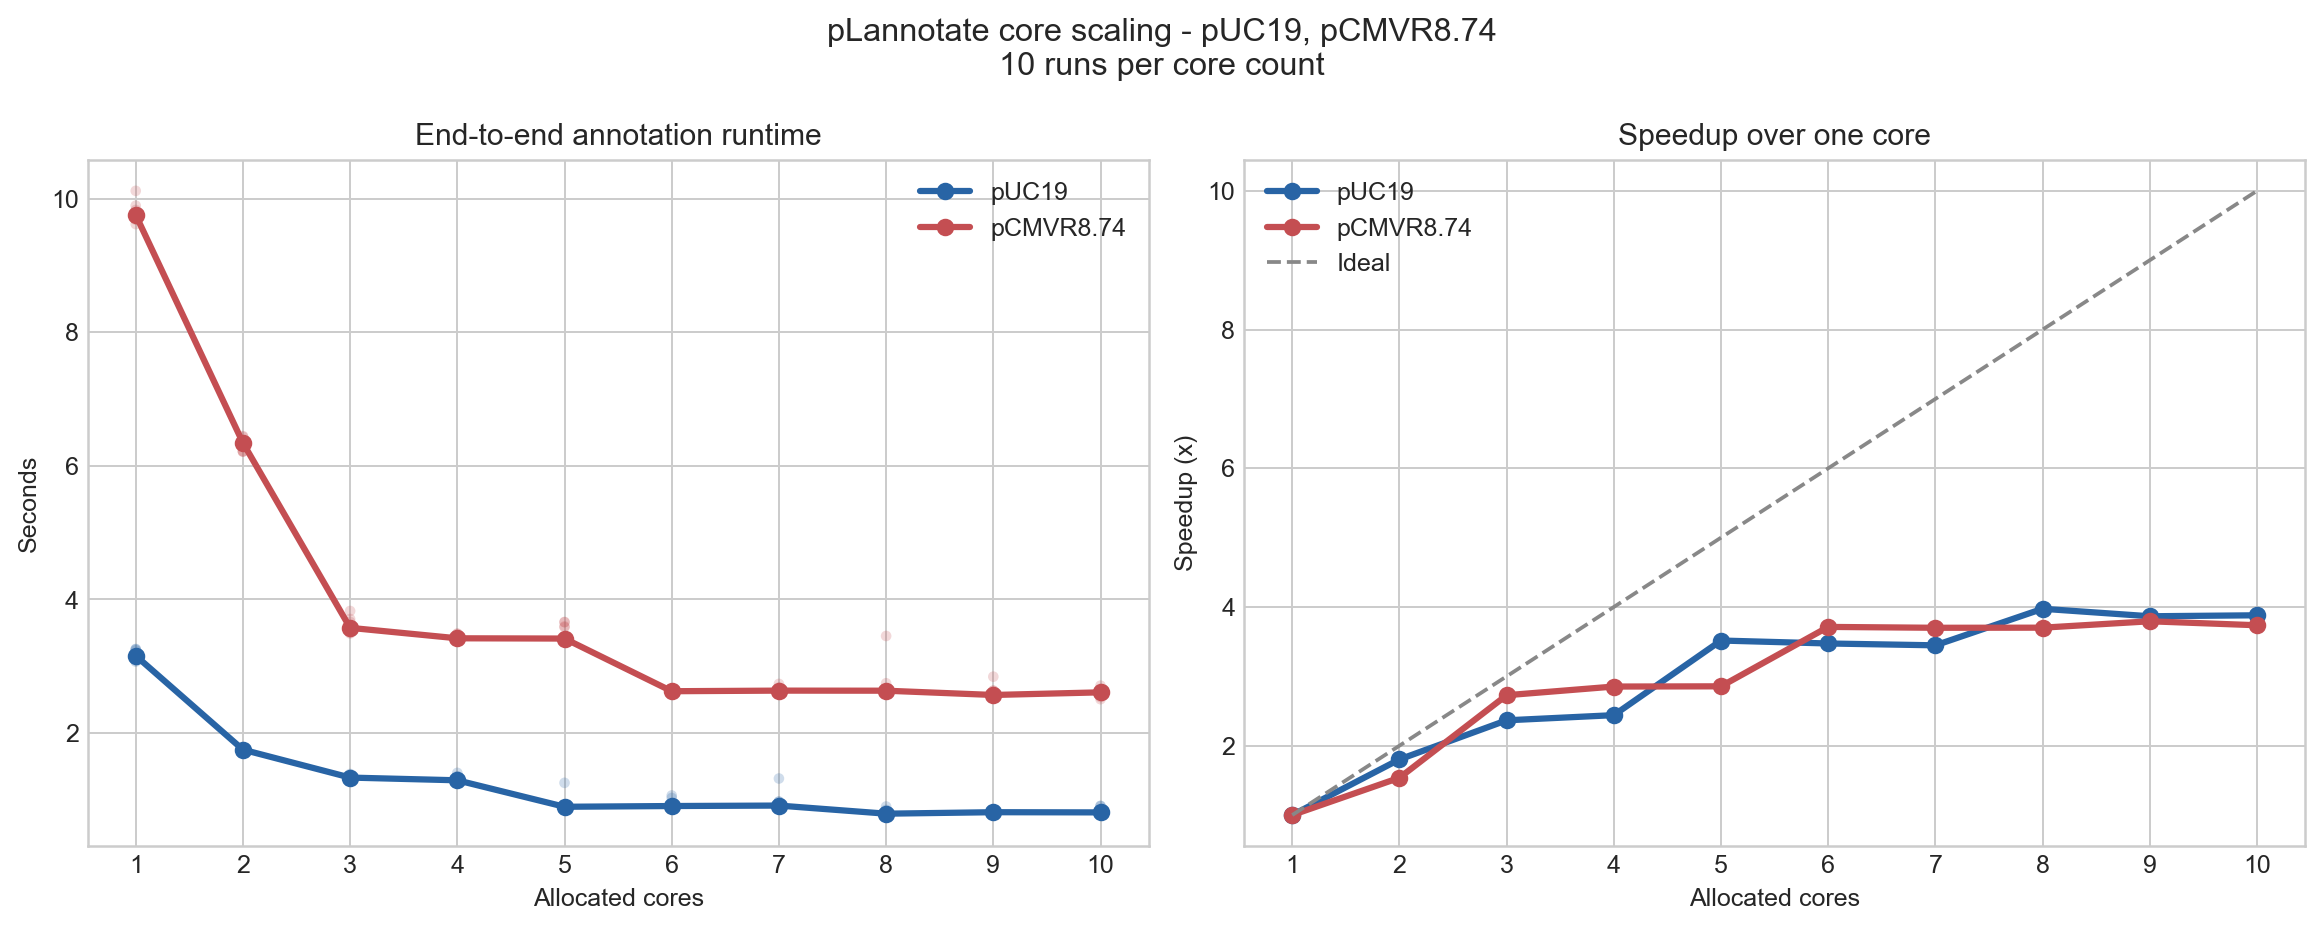
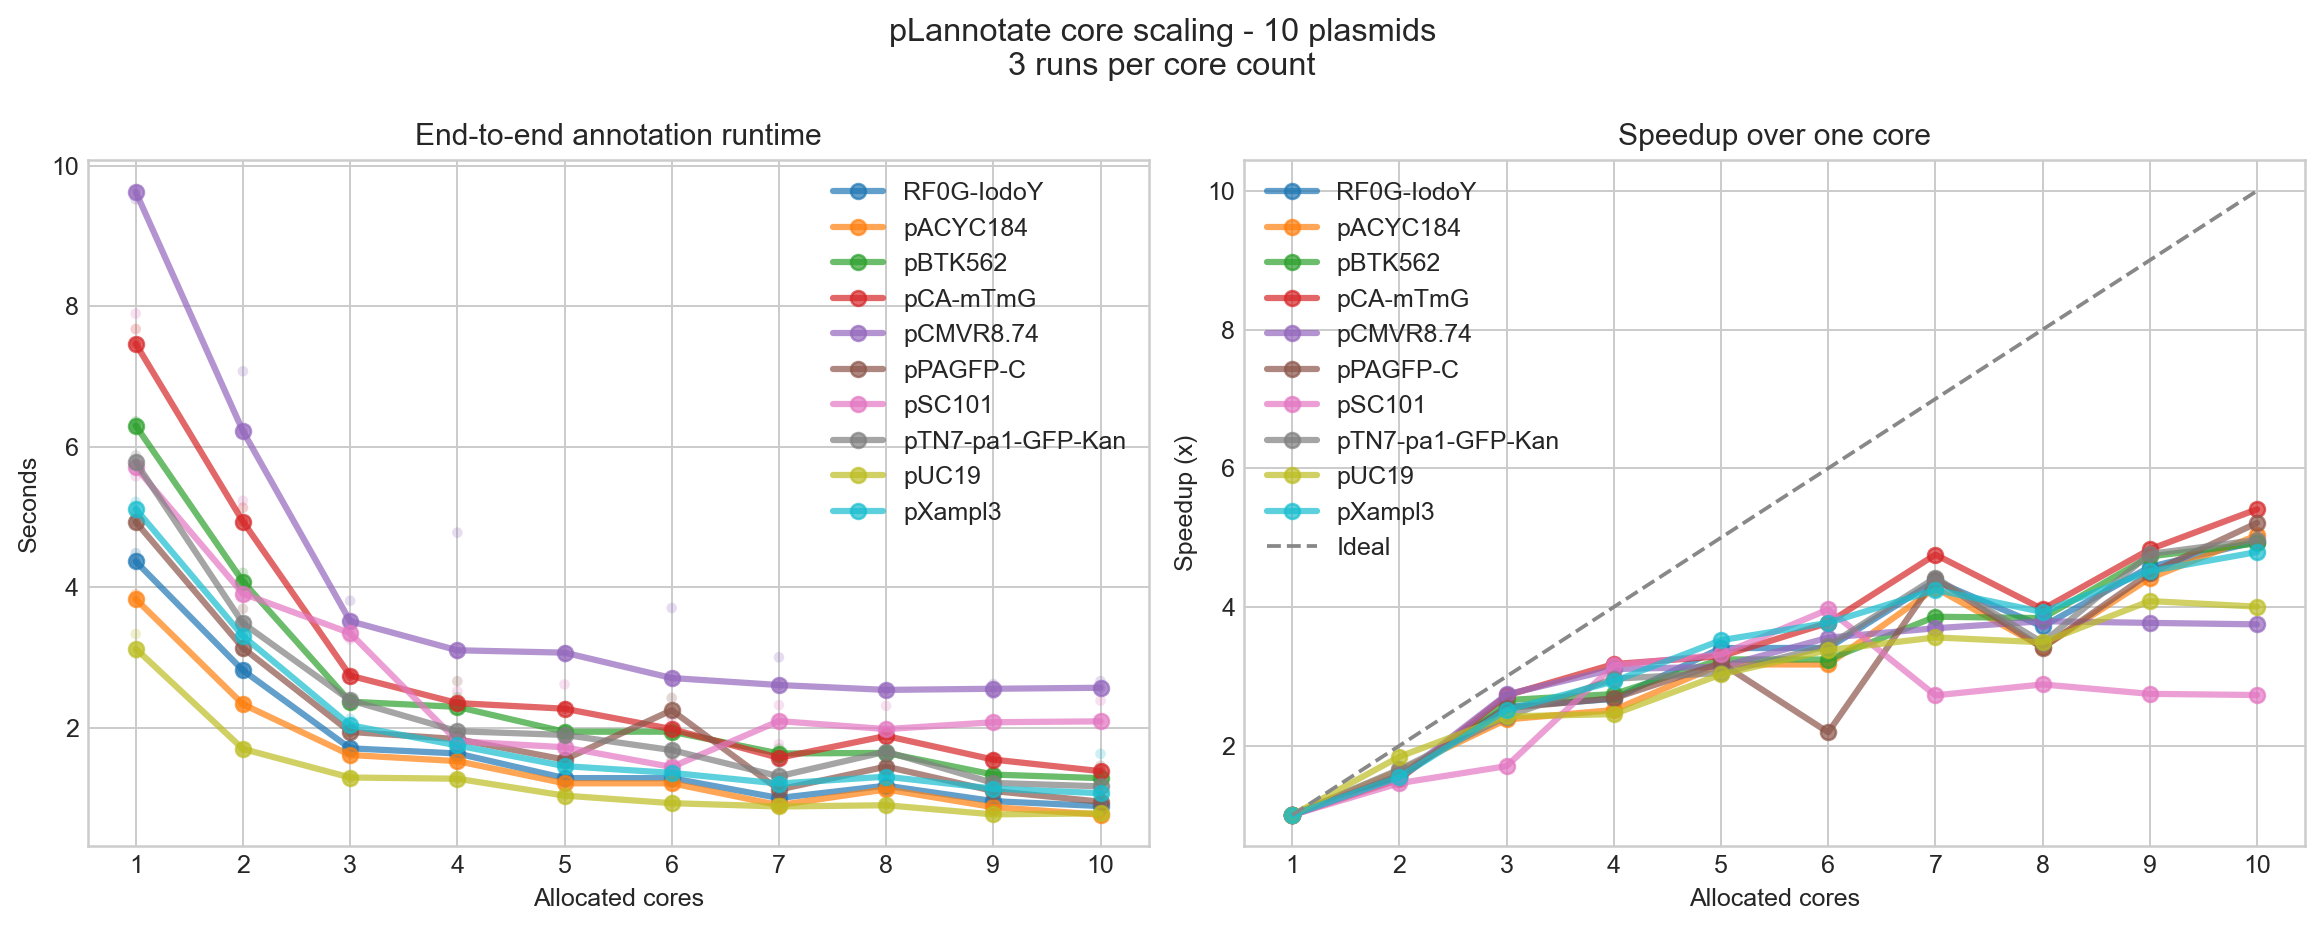
∆ recalibrate source costs and broaden the scaling benchmark
Flatten the 3-5 core scaling shelf and refresh the benchmark figure.

Scheduler costs:
- recalibrate databases.yml cost values to measured single-thread runtimes
  (Rfam 6.2, swissprot 3.0, snapgene 0.45, fpbase 0.03). The old values
  over-weighted swissprot, so at 4-5 cores the planner fed the spare core to
  swissprot (which barely scales) instead of Rfam (which does). With the true
  ratios the planner balances both, removing the shelf: pCMVR8.74 C4
  3.44s -> 3.10s, C5 3.42s -> 3.07s, while the 6-10 floor stays at swissprot's
  ~2.5s hard limit. No code change -- the makespan planner just gets honest
  inputs. Comments note swissprot's poor thread scaling.

Benchmark:
- default to all bundled plasmids at 3 reps (was two plasmids at 10); sample
  the tab10 colormap for ten distinct colors, count-based title, and draw the
  median lines semi-transparent so overlapping plasmids stay legible.
- regenerate the core-scaling figure.

diff --git a/tools/benchmark_annotation_cores.py b/tools/benchmark_annotation_cores.py
@@ -189,7 +189,9 @@ def render_comparison_figure(
 
     plt.style.use("seaborn-v0_8-whitegrid")
     figure, (runtime_axis, speedup_axis) = plt.subplots(1, 2, figsize=(13, 5.2))
-    palette = ["#2864A5", "#C44E52", "#55A868", "#8172B3"]
+    # sample a qualitative colormap so up to ten plasmids stay distinguishable
+    colormap = plt.get_cmap("tab10")
+    palette = [colormap(index % 10) for index in range(len(summaries))]
 
     for index, (name, summary) in enumerate(summaries.items()):
         color = palette[index % len(palette)]
@@ -211,6 +213,7 @@ def render_comparison_figure(
             marker="o",
             linewidth=2.5,
             markersize=6,
+            alpha=0.7,
             label=name,
             zorder=3,
         )
@@ -221,6 +224,7 @@ def render_comparison_figure(
             marker="o",
             linewidth=2.5,
             markersize=6,
+            alpha=0.7,
             label=name,
         )
 
@@ -245,7 +249,7 @@ def render_comparison_figure(
         axis.legend(frameon=False)
 
     figure.suptitle(
-        f"pLannotate core scaling - {', '.join(summaries)}\n"
+        f"pLannotate core scaling - {len(summaries)} plasmids\n"
         f"{repeats} runs per core count",
         fontsize=13,
     )
@@ -274,12 +278,12 @@ def main() -> None:
         "--fasta",
         type=Path,
         nargs="+",
-        default=[Path("plannotate/data/fastas/pUC19.fa")],
-        help="One or more FASTA files; multiple files add a combined comparison plot.",
+        default=sorted(Path("plannotate/data/fastas").glob("*.fa")),
+        help="One or more FASTA files; defaults to all bundled plasmids.",
     )
     parser.add_argument("--cores", type=int, default=1, help=argparse.SUPPRESS)
     parser.add_argument("--max-cores", type=int, default=10)
-    parser.add_argument("--repeats", type=int, default=10)
+    parser.add_argument("--repeats", type=int, default=3)
     parser.add_argument("--seed", type=int, default=20260621)
     parser.add_argument(
         "--timeout-seconds",